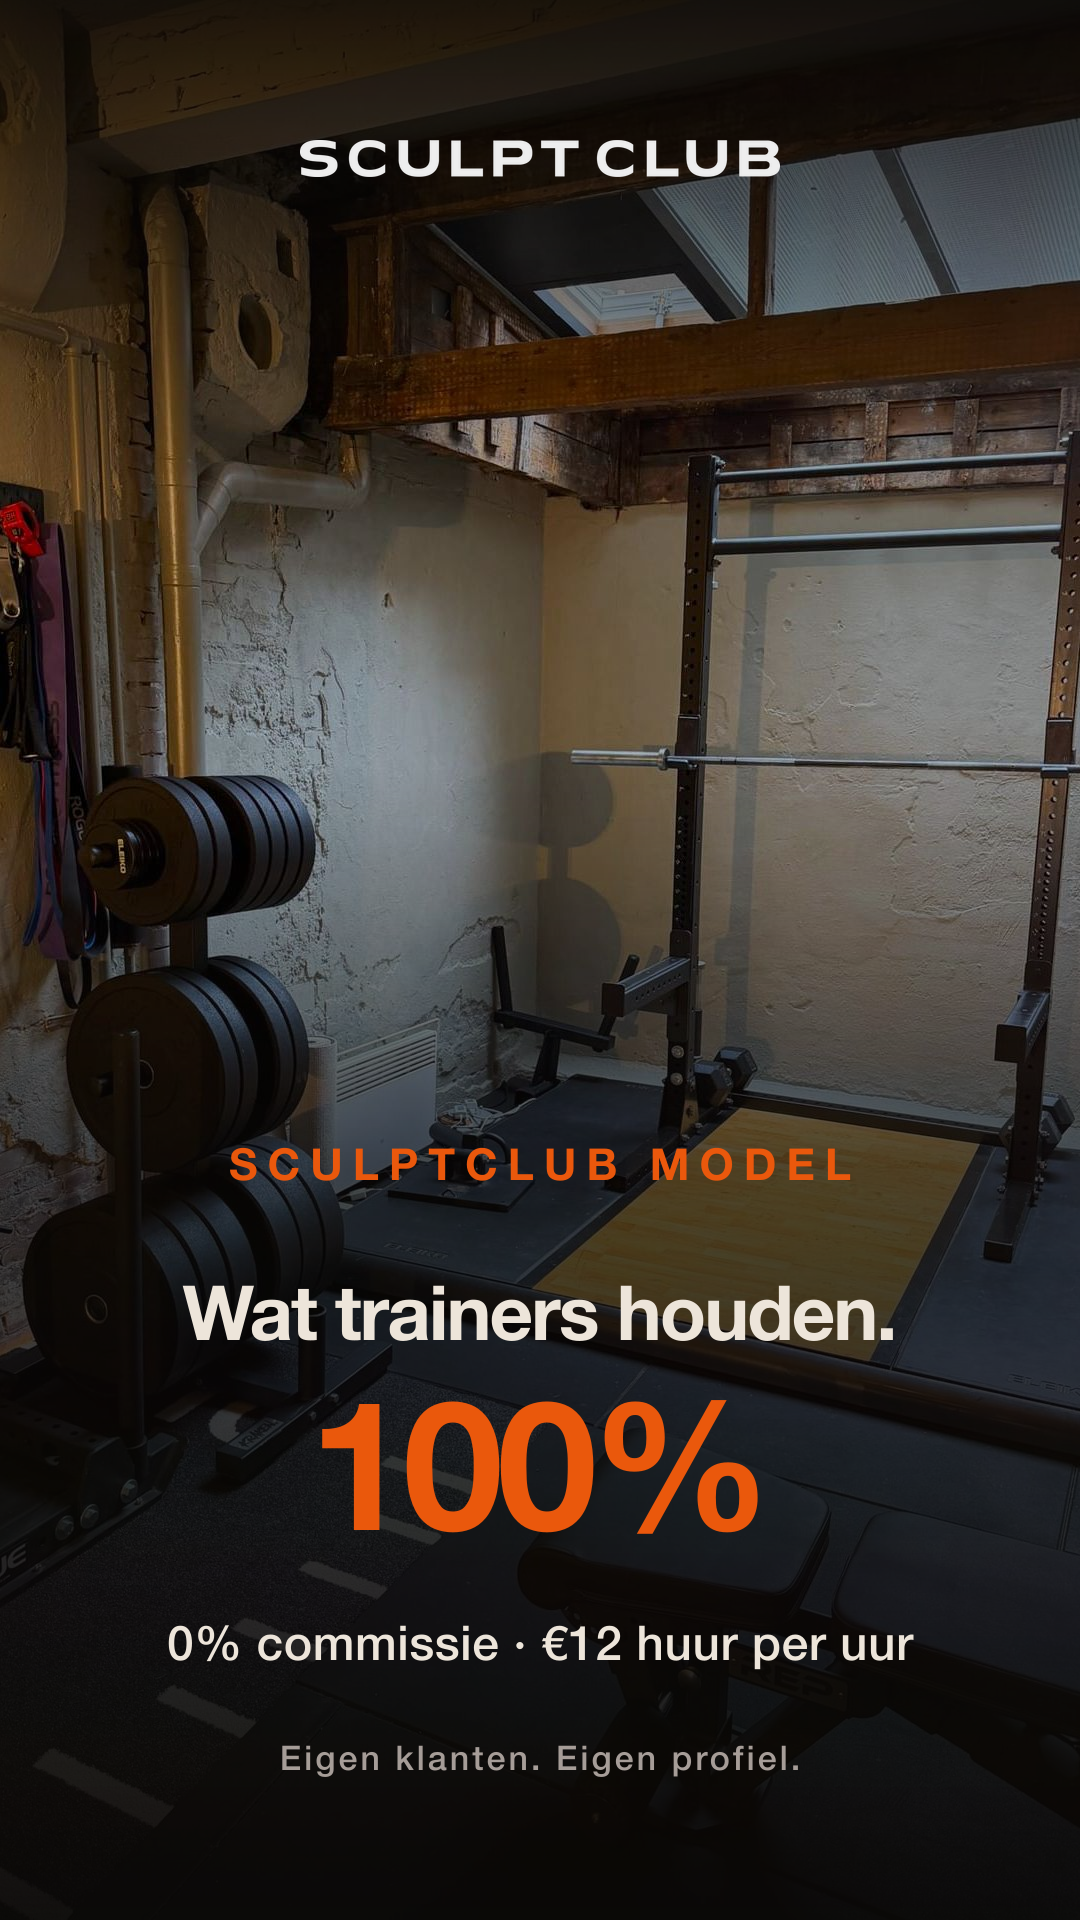
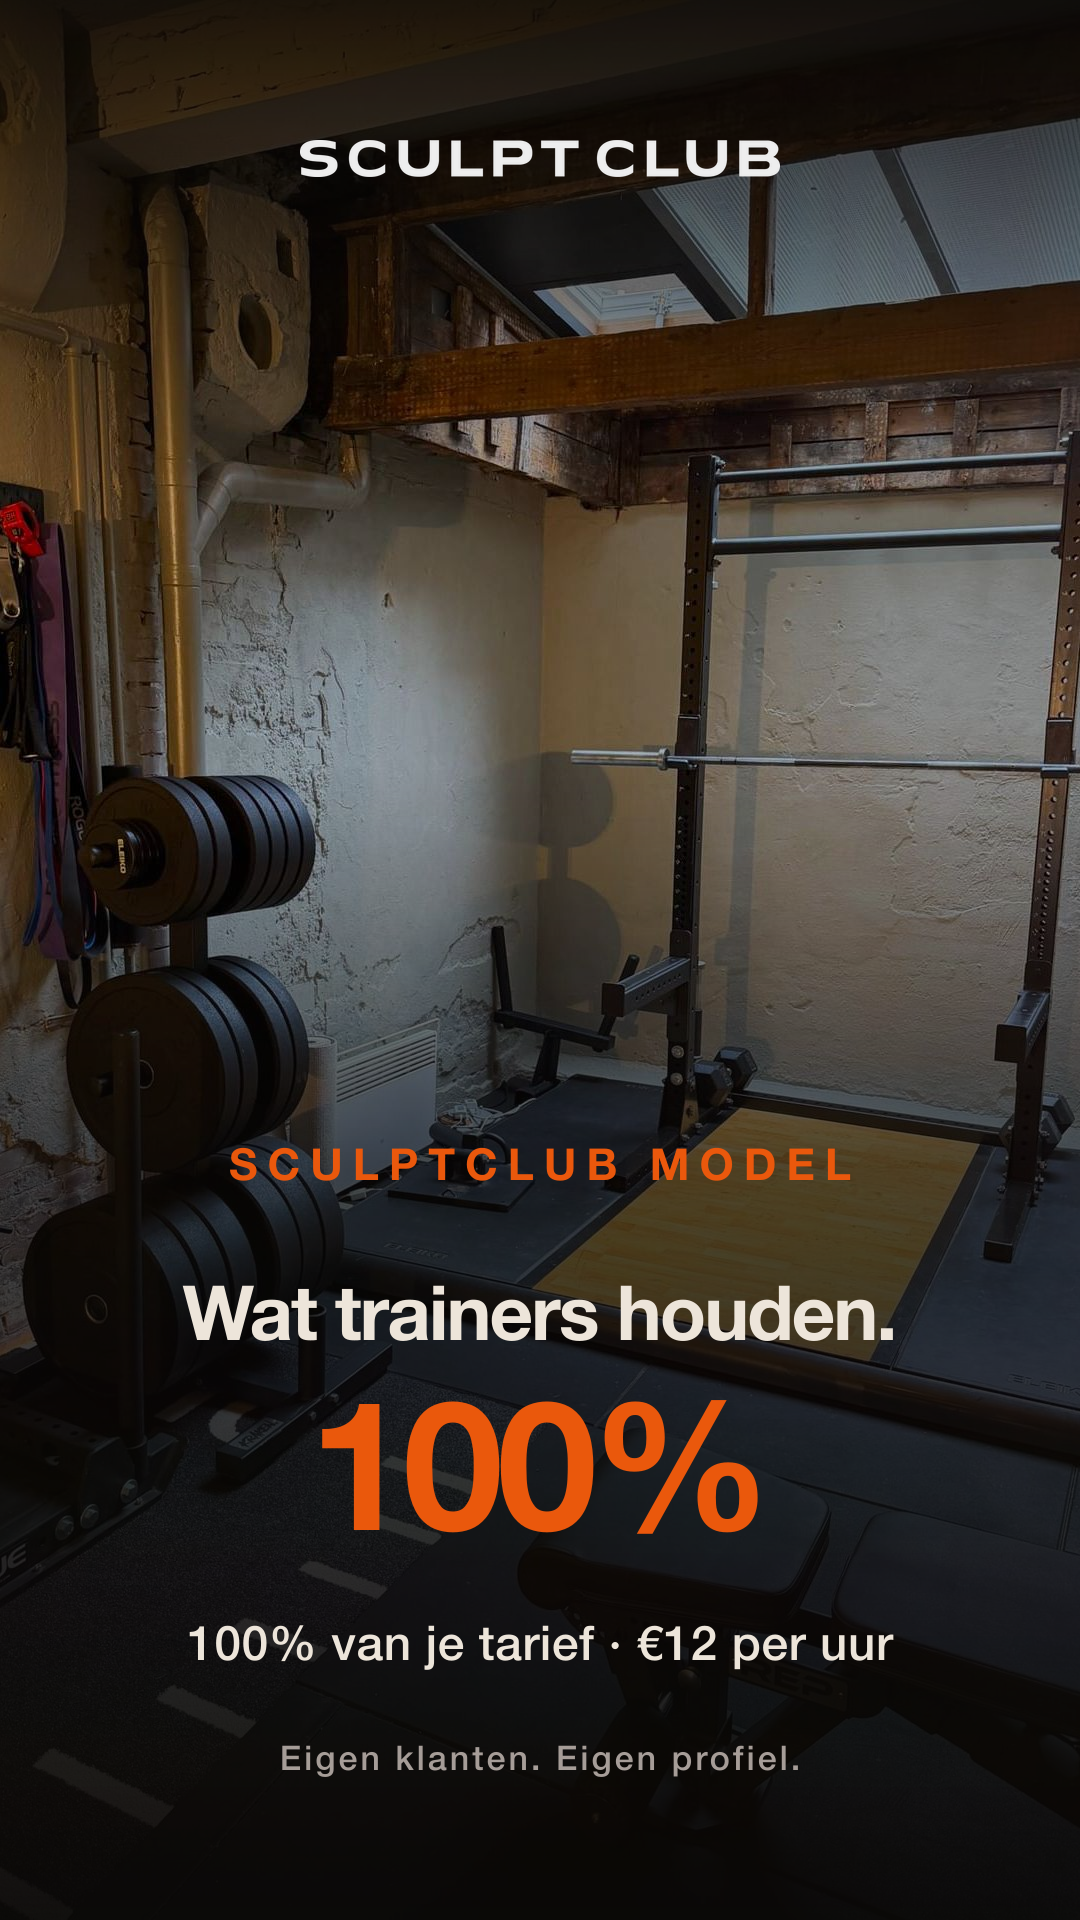
social: land device-2 caption blocks + retire "0% commissie" from slide copy
Lands wip/device2-social-edits-20260905 (bf3caa5) onto current main instead of merging the
stale branch (its SOCIAL_ROTATION.md append and 09-05 PNGs are superseded).
- Caption (NL) blocks on 5 /social/ studio pages (squat, open-gym, trainer-pitch,
  commission-math, alex spotlight), em dashes removed; open-gym caption no longer says
  "Eerste les is gratis" (banned 'les' + unverified free session) -> losse sessie van €9.
- scripts/build-tiktok-post.mjs: "0% commissie" -> "100% van je tarief", eyebrow
  "0% COMMISSIE" -> "JOUW TARIEF" (CLAUDE.md: there was never a commission to waive).
- Regenerated trainer-pitch-001 + trainer-commission-math-001; only the 4 slides whose
  text changed differ, the other 8 are byte-identical.

Changed region(s): [[0.1528, 0.8438, 0.8556, 0.875]]

diff --git a/public/social/trainer-spotlight-alex-001/index.html b/public/social/trainer-spotlight-alex-001/index.html
@@ -98,6 +98,22 @@
   <h2>👁 Preview & losse downloads</h2>
   <div class="slides" id="slides-container"></div>
 
+  <div class="caption-box" style="background:var(--card);border:1px solid var(--border);border-radius:14px;padding:14px 16px;margin-top:1.5rem;">
+    <h2 style="font-size:1rem; margin:0;">Caption (NL)</h2>
+    <pre id="caption" style="white-space:pre-wrap;word-wrap:break-word;font-family:inherit;font-size:0.9rem;line-height:1.55;color:var(--fg);margin:10px 0 0;">Alex komt uit de turnsport. Dat merk je aan de volgorde waarin hij traint: eerst controle, dan pas kracht.
+
+Zijn ding is static calisthenics: de onderdelen waarbij je stilstaat en het juist zwaarder wordt. Van een eerste nette push-up naar een handstand die je vasthoudt. Die controle gebruik je daarna overal.
+
+Hij traint op prestatie, spieropbouw en herstel, in het Nederlands, Engels en Portugees. €69 per 60 minuten. De intake is gratis.
+
+Alex werkt zelfstandig: hij huurt de studio per uur en je maakt de afspraak rechtstreeks met hem.
+
+Bij hem trainen? Laat het weten via WhatsApp, dan brengen we je in contact.
+
+#personaltrainer #calisthenics #handstand #amsterdam #jordaan #krachttraining #ptamsterdam #turnen</pre>
+  </div>
+
+
   <h2>🎵 Sound — top 3 voor trainer-spotlight content</h2>
   <div class="card">
     <div id="sound-context" style="margin: 0 0 0.8rem"></div>

diff --git a/public/social/education-squat-mistakes-001/index.html b/public/social/education-squat-mistakes-001/index.html
@@ -101,6 +101,20 @@
   <p style="color: var(--muted); font-size: 0.85rem; margin: 0 0 0.8rem">Visuele check + losse download per slide als 'alle 3' niet werkte.</p>
   <div class="slides" id="slides-container"></div>
 
+  <div class="caption-box" style="background:var(--card);border:1px solid var(--border);border-radius:14px;padding:14px 16px;margin-top:1.5rem;">
+    <h2 style="font-size:1rem; margin:0;">Caption (NL)</h2>
+    <pre id="caption" style="white-space:pre-wrap;word-wrap:break-word;font-family:inherit;font-size:0.9rem;line-height:1.55;color:var(--fg);margin:10px 0 0;">Knieën die naar binnen zakken. Dat is de fout die het vaakst voorbijkomt in een squat, en degene die je zelf bijna nooit voelt gebeuren.
+
+De andere twee: je romp kantelt naar voren zodra het gewicht omhoog gaat, en je hielen komen los van de vloer.
+
+Meestal ligt het niet aan kracht. Het is te veel gewicht, of dieper zakken dan je mobiliteit op dat moment toelaat. Iemand die ernaar kijkt ziet binnen twee herhalingen welke van de drie het is.
+
+Welke herken je bij jezelf? Zet &#x27;m hieronder.
+
+#squat #krachttraining #squattechniek #personaltrainer #amsterdam #jordaan #fitnessamsterdam #techniek</pre>
+  </div>
+
+
   <h2>🎵 Sound — top 3 voor education content</h2>
   <div class="card">
     <div id="sound-context" style="margin: 0 0 0.8rem"></div>

diff --git a/public/social/open-gym-pitch-001/index.html b/public/social/open-gym-pitch-001/index.html
@@ -118,6 +118,22 @@
   <p style="color: var(--muted); font-size: 0.85rem; margin: 0 0 0.8rem">Visuele check + losse download per slide als 'alle 3' niet werkte.</p>
   <div class="slides" id="slides-container"></div>
 
+  <div class="caption-box" style="background:var(--card);border:1px solid var(--border);border-radius:14px;padding:14px 16px;margin-top:1.5rem;">
+    <h2 style="font-size:1rem; margin:0;">Caption (NL)</h2>
+    <pre id="caption" style="white-space:pre-wrap;word-wrap:break-word;font-family:inherit;font-size:0.9rem;line-height:1.55;color:var(--fg);margin:10px 0 0;">€29 voor vier weken trainen. Dat komt neer op €7,25 per sessie.
+
+Dat is het instapplan: vier sessies van 60 minuten, verdeeld over vier weken. Kom je vaker, dan reserveer je losse uren van €9.
+
+Je zit nergens aan vast. Opzeggen kan altijd en kost niets.
+
+Het is geen sportschool met een receptie en rijen cardio-apparaten. Het is een kleine privéstudio waar je je uur reserveert en gewoon traint.
+
+Twijfel je nog? Probeer eerst een losse sessie van €9.
+
+#opengym #amsterdam #jordaan #sportschoolamsterdam #privegym #alleentrainen #zonderabonnement #fitnessamsterdam</pre>
+  </div>
+
+
   <h2>🎵 Sound — top 3 voor Open Gym vibe</h2>
   <div class="card">
     <div id="sound-context" style="margin: 0 0 0.8rem"></div>

diff --git a/public/social/trainer-pitch-001/index.html b/public/social/trainer-pitch-001/index.html
@@ -352,6 +352,19 @@
     <ol style="padding-left: 1.4em; margin: 0; line-height: 1.7" id="workflow-list"></ol>
   </div>
 
+  <div class="caption-box" style="background:var(--card);border:1px solid var(--border);border-radius:14px;padding:14px 16px;margin-top:1.5rem;">
+    <h2 style="font-size:1rem; margin:0;">Caption (NL)</h2>
+    <pre id="caption" style="white-space:pre-wrap;word-wrap:break-word;font-family:inherit;font-size:0.9rem;line-height:1.55;color:var(--fg);margin:10px 0 0;">De eerste eigen plek van een trainer is meestal geen plek. Het is de woonkamer van een klant, een hoek van een gym waar je eigenlijk niet mag staan, of het park zolang het droog blijft.
+
+Wat dat tegenhoudt is zelden het aantal klanten. Het is de gedachte aan een vaste maandlast die doorloopt in een week dat je niets boekt.
+
+Daarom verhuren we per uur. Train je een week niet, dan kost de ruimte je die week niets. Halve zaal, €12 per uur.
+
+Ben je trainer en wil je het een keer zien? Stuur ons een WhatsApp, dan lopen we er samen doorheen.
+
+#personaltrainer #zzp #amsterdam #jordaan #ptamsterdam #studioverhuur #freelancetrainer #fitnessamsterdam</pre>
+  </div>
+
   <div class="footer">
     Made by SculptClub · <a href="https://sculptclub.nl">sculptclub.nl</a>
   </div>

diff --git a/public/social/trainer-commission-math-001/index.html b/public/social/trainer-commission-math-001/index.html
@@ -171,6 +171,21 @@
     <ol style="padding-left: 1.4em; margin: 0; line-height: 1.7" id="workflow-list"></ol>
   </div>
 
+  <div class="caption-box" style="background:var(--card);border:1px solid var(--border);border-radius:14px;padding:14px 16px;margin-top:1.5rem;">
+    <h2 style="font-size:1rem; margin:0;">Caption (NL)</h2>
+    <pre id="caption" style="white-space:pre-wrap;word-wrap:break-word;font-family:inherit;font-size:0.9rem;line-height:1.55;color:var(--fg);margin:10px 0 0;">Een commissie is geen prijs. Het is een percentage van hoe goed je wordt.
+
+Verhoog je je tarief, dan gaat het bedrag dat je afdraagt vanzelf mee omhoog, voor precies dezelfde ruimte, hetzelfde uur, dezelfde vloer. Je wordt beter en je gaat er meer voor betalen.
+
+Huur doet dat niet. Een uur kost wat een uur kost, of je nu net begint of al jaren volzit. Wat je erboven verdient houd je zelf: 100% van je eigen tarief.
+
+Dat is het hele verschil tussen de twee modellen. Verder niks.
+
+Trainer? App ons even, dan laten we de studio zien.
+
+#personaltrainer #zzp #freelancetrainer #amsterdam #jordaan #ptamsterdam #ondernemen #studioverhuur</pre>
+  </div>
+
   <div class="footer">
     Made by SculptClub · <a href="https://sculptclub.nl">sculptclub.nl</a>
   </div>
